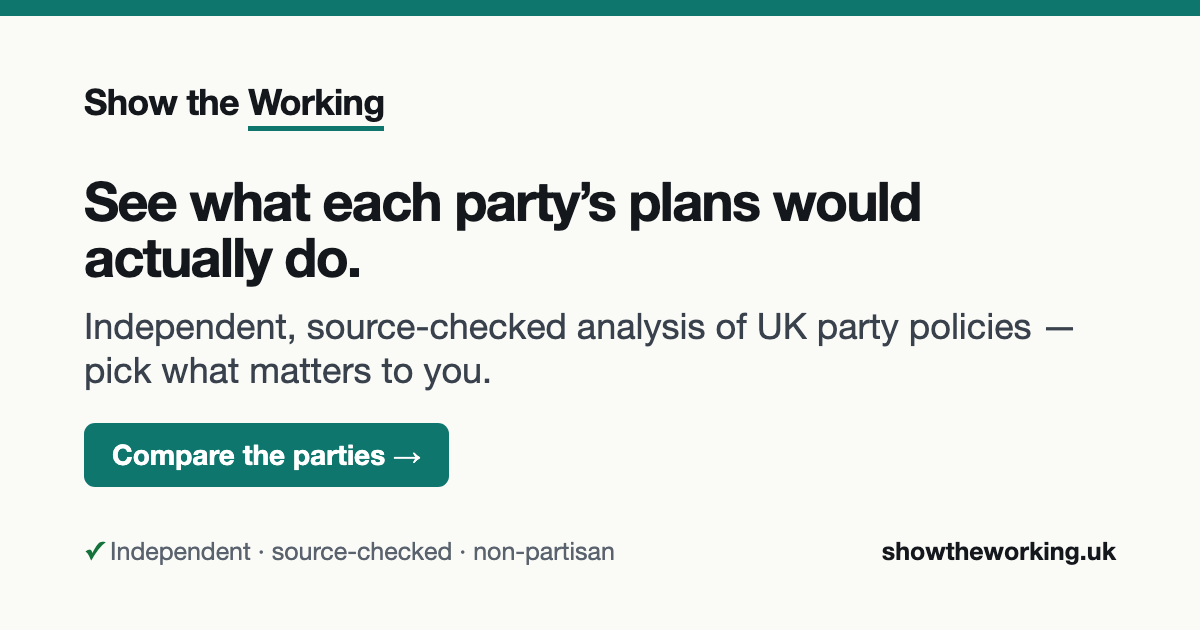
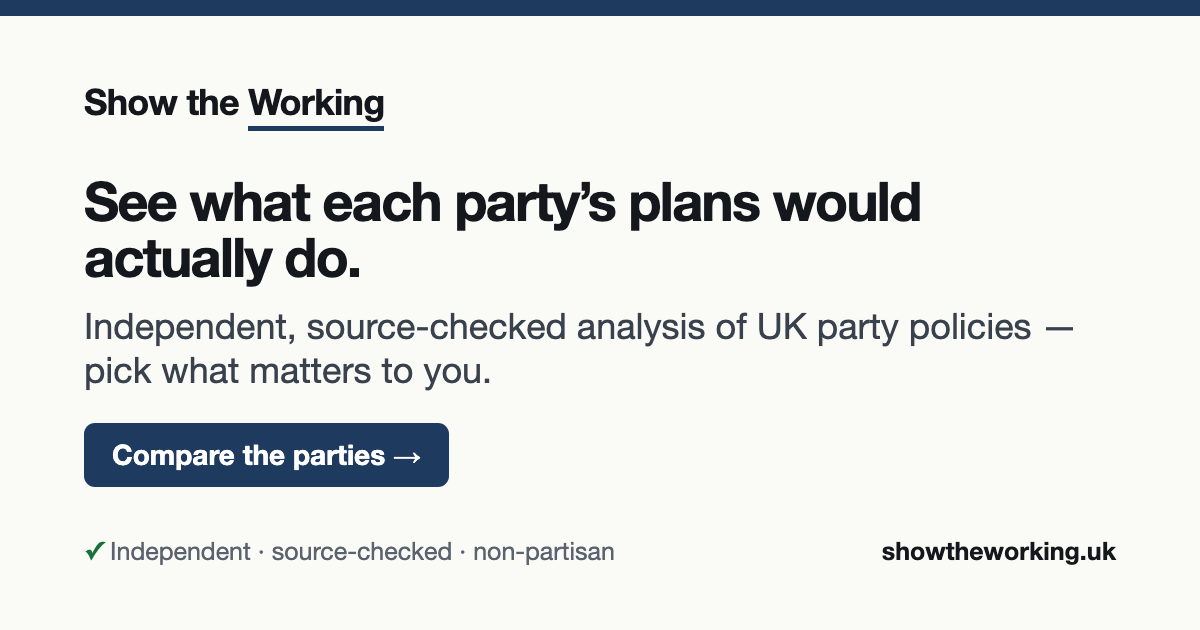
Accent → navy (#1f3a5f); regenerate share cards
Olly's pick from the local colour previews — keeps a blue we like while staying clearly distinct
from the old civic-blue (and from PolicyLens). Updates styles.css accent/ink/tint + the OG card hexes.

Changed region(s): [[0.0617, 0.6635, 0.4008, 0.7841], [0.0, 0.0, 1.0, 0.0302], [0.2158, 0.181, 0.3083, 0.2111]]

diff --git a/web/styles.css b/web/styles.css
@@ -7,9 +7,9 @@
   --line: #e6e9ee;
   --line-strong: #c7ced7;
   --panel: #f4f6f9;
-  --accent: #0f766e;       /* teal — distinct from the verdict palette (and from civic-blue lookalikes) */
-  --accent-ink: #115e59;
-  --accent-tint: #e9f6f3;
+  --accent: #1f3a5f;       /* navy — distinct from the verdict palette (and from civic-blue lookalikes) */
+  --accent-ink: #152a40;
+  --accent-tint: #eef2f7;
   /* verdict palette — all AA on white */
   --v-improves: #15723a;
   --v-worsens: #b3121c;

diff --git a/pipeline/build_og_cards.py b/pipeline/build_og_cards.py
@@ -30,12 +30,12 @@ def _card_html(title, subtitle, cta="Compare the parties →"):
 body{{width:1200px;height:630px;background:#fafaf7;color:#14181d;
  font-family:-apple-system,'Segoe UI',Roboto,'Helvetica Neue',Arial,sans-serif;
  padding:64px 84px;display:flex;flex-direction:column;justify-content:space-between;
- border-top:16px solid #0f766e}}
+ border-top:16px solid #1f3a5f}}
 .brand{{font-size:36px;font-weight:800;letter-spacing:-.02em}}
-.brand .uw{{border-bottom:5px solid #0f766e;padding-bottom:3px}}
+.brand .uw{{border-bottom:5px solid #1f3a5f;padding-bottom:3px}}
 .title{{font-size:{_title_size(title)}px;font-weight:800;letter-spacing:-.03em;line-height:1.04}}
 .sub{{font-size:36px;color:#38414c;margin-top:20px;line-height:1.22;max-width:1000px}}
-.cta{{display:inline-block;margin-top:30px;background:#0f766e;color:#fff;font-size:28px;
+.cta{{display:inline-block;margin-top:30px;background:#1f3a5f;color:#fff;font-size:28px;
  font-weight:700;padding:15px 28px;border-radius:11px}}
 .foot{{display:flex;justify-content:space-between;align-items:center;font-size:25px;color:#59626d}}
 .foot .dom{{font-weight:800;color:#14181d}}
